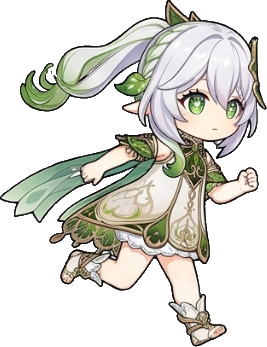
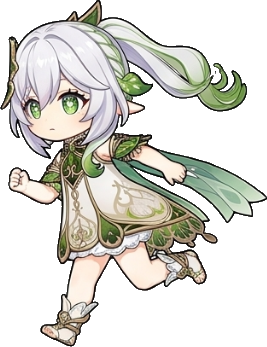
fix: anchor Nahida companion to screen bottom with uniform sprite facing and forward movement in both directions

diff --git a/src/components/athena_widget.rs b/src/components/athena_widget.rs
@@ -17,14 +17,6 @@ const SPRITES_WALK_LEFT: [&str; 3] = [
 ];
 
 const SPRITE_IMPACT: &str = "assets/chibi/02_physics_events/nahida_impact_01.png";
-
-const SPRITES_FALL: [&str; 3] = [
-    "assets/chibi/02_physics_events/nahida_fall_01.png",
-    "assets/chibi/02_physics_events/nahida_fall_02.png",
-    "assets/chibi/02_physics_events/nahida_fall_03.png",
-];
-
-const SPRITE_LAND: &str = "assets/chibi/02_physics_events/nahida_land_01.png";
 const SPRITE_RECOVER: &str = "assets/chibi/02_physics_events/nahida_recover_01.png";
 
 const SPRITE_THINK: &str = "assets/chibi/03_chat_interaction/nahida_think_pose.png";
@@ -34,22 +26,17 @@ const SPRITE_LOADING: &str = "assets/chibi/03_chat_interaction/nahida_loading_01
 const SPRITE_EXCITED: &str = "assets/chibi/03_chat_interaction/nahida_excited_01.png";
 const SPRITE_ANSWERING: &str = "assets/chibi/03_chat_interaction/nahida_answering_01.png";
 
-const SPRITE_LEAVE_01: &str = "assets/chibi/04_exit/nahida_leave_01.png";
-const SPRITE_LEAVE_02: &str = "assets/chibi/04_exit/nahida_leave_02.png";
-
 #[derive(Clone, Copy, Debug, PartialEq)]
 enum CompanionState {
-    Spawning,          // 0: Spawn at top-left
-    PatrolRight,       // 1: Run left-to-right along top
-    EdgeContact,       // 2: Hit right wall, impact bounce
-    AntiGravityFall,   // 3: Slow leaf-sway drift from top to bottom
-    Recovery,          // 4: Land on floor, shake off dizzy, stand ready
-    PatrolLeft,        // 5: Walk right-to-left smoothly along bottom
+    Spawning,          // 0: Spawns at bottom-left
+    PatrolRight,       // 1: Runs forward (facing right) along bottom towards right edge
+    EdgeContact,       // 2: Hits right edge, recoils slightly
+    Recovery,          // 3: Recovers, shakes head, turns left
+    PatrolLeft,        // 4: Walks forward (facing left) along bottom towards left edge
+    LeftTurn,          // 5: Reaches left edge, turns around to face right
     InterruptedChat,   // 6: Docked beside open chatbox
     Thinking,          // 7: Athena AI generating response
     Answering,         // 8: Athena AI completed answer
-    Departure,         // 9: Wave & dissolve fade out
-    InstantRecycle,    // 10: Reset to top-left and loop
 }
 
 #[component]
@@ -58,11 +45,10 @@ pub fn AthenaWidget() -> impl IntoView {
 
     // Chibi Reactive State Signals (100% Rust)
     let (x, set_x) = signal(24.0);
-    let (y, set_y) = signal(40.0);
+    let (bottom, set_bottom) = signal(20.0);
     let (scale, set_scale) = signal(0.0);
     let (opacity, set_opacity) = signal(1.0);
-    let (flip, set_flip) = signal(1.0);
-    let (sway_deg, set_sway_deg) = signal(0.0);
+    let (flip, set_flip) = signal(-1.0); // -1.0 flips native-left sprites to face right
     let (current_sprite, set_current_sprite) = signal(SPRITES_RUN[0]);
     let (bubble_text, set_bubble_text) = signal("Awakening...");
     let (bubble_icon, set_bubble_icon) = signal("🌱");
@@ -82,10 +68,8 @@ pub fn AthenaWidget() -> impl IntoView {
     Effect::new(move |_| {
         let mut state = CompanionState::Spawning;
         let mut pos_x: f64 = 24.0;
-        let mut pos_y: f64 = 40.0;
-        let top_y: f64 = 40.0;
+        let pos_bottom: f64 = 20.0;
         let left_edge: f64 = 24.0;
-        let mut vy: f64 = 0.0;
         let mut state_time: f64 = 0.0;
         let mut anim_tick: usize = 0;
         let mut was_open = false;
@@ -96,9 +80,6 @@ pub fn AthenaWidget() -> impl IntoView {
                 None => return,
             };
             let win_w = win.inner_width().ok().and_then(|v| v.as_f64()).unwrap_or(1200.0);
-            let win_h = win.inner_height().ok().and_then(|v| v.as_f64()).unwrap_or(800.0);
-
-            let floor_y = (win_h - 96.0).max(120.0);
             let right_edge = (win_w - 76.0).max(140.0);
 
             state_time += 16.6;
@@ -117,11 +98,13 @@ pub fn AthenaWidget() -> impl IntoView {
                 set_scale.set(1.0);
                 set_opacity.set(1.0);
                 set_flip.set(1.0);
-                set_sway_deg.set(0.0);
             } else if !open && was_open {
-                // When chat is closed, wave and recycle to restart loop
-                state = CompanionState::Departure;
+                // When chat is closed, turn and resume bottom patrol left
+                state = CompanionState::PatrolLeft;
                 state_time = 0.0;
+                set_flip.set(1.0);
+                set_bubble_text.set("Exploring...");
+                set_bubble_icon.set("🌿");
             }
             was_open = open;
 
@@ -148,16 +131,14 @@ pub fn AthenaWidget() -> impl IntoView {
             }
 
             match state {
-                // State 0: Spawning at Top-Left
+                // State 0: Spawning at Bottom-Left
                 CompanionState::Spawning => {
                     pos_x = left_edge;
-                    pos_y = top_y;
                     let sc = (state_time / 250.0).min(1.0);
                     set_scale.set(sc);
                     set_opacity.set(1.0);
-                    set_flip.set(1.0);
-                    set_sway_deg.set(0.0);
-                    set_current_sprite.set(SPRITES_RUN[0]);
+                    set_flip.set(-1.0); // Face right
+                    set_current_sprite.set(SPRITE_THINK);
                     set_bubble_text.set("Awakening...");
                     set_bubble_icon.set("🌱");
                     set_bubble_dot.set("#34d399");
@@ -171,14 +152,12 @@ pub fn AthenaWidget() -> impl IntoView {
                     }
                 }
 
-                // State 1: Running Left-to-Right along Top (Smooth, deterministic path)
+                // State 1: Running Left-to-Right along Bottom (Facing Right)
                 CompanionState::PatrolRight => {
-                    pos_y = top_y;
-                    pos_x += 2.8; // Steady running speed
+                    pos_x += 2.6; // Steady running speed
                     set_scale.set(1.0);
                     set_opacity.set(1.0);
-                    set_flip.set(1.0);
-                    set_sway_deg.set(0.0);
+                    set_flip.set(-1.0); // -1.0 makes native-left sprites face forward to the right
 
                     // 12fps running cycle
                     let frame = (anim_tick / 5) % SPRITES_RUN.len();
@@ -195,78 +174,44 @@ pub fn AthenaWidget() -> impl IntoView {
                     }
                 }
 
-                // State 2: Edge Impact & Recoil Bounce
+                // State 2: Edge Impact Bounce at Right Edge
                 CompanionState::EdgeContact => {
                     let bounce = (state_time / 300.0).min(1.0) * std::f64::consts::PI;
                     pos_x = right_edge - bounce.sin() * 7.0;
-                    pos_y = top_y;
 
                     if state_time >= 300.0 {
-                        state = CompanionState::AntiGravityFall;
-                        state_time = 0.0;
-                        vy = 0.5;
-                        set_bubble_text.set("whoa~");
-                        set_bubble_icon.set("🍃");
-                        set_bubble_dot.set("#10b981");
-                    }
-                }
-
-                // State 3: Dendro Anti-Gravity Falling (Top-Right down to Floor)
-                CompanionState::AntiGravityFall => {
-                    vy = (vy + 0.05).min(2.2);
-                    pos_y += vy;
-
-                    // Leaf-falling horizontal sine-wave drift and body tilt
-                    pos_x = right_edge - 10.0 + (state_time * 0.005).sin() * 14.0;
-                    set_sway_deg.set((state_time * 0.004).sin() * 12.0);
-
-                    let frame = (anim_tick / 8) % SPRITES_FALL.len();
-                    set_current_sprite.set(SPRITES_FALL[frame]);
-
-                    if pos_y >= floor_y {
-                        pos_y = floor_y;
-                        set_sway_deg.set(0.0);
                         state = CompanionState::Recovery;
                         state_time = 0.0;
-                        set_bubble_text.set("bonk!");
-                        set_bubble_icon.set("💫");
-                        set_bubble_dot.set("#f59e0b");
-                    }
-                }
-
-                // State 4: Landing & Recovery on Ground Floor
-                CompanionState::Recovery => {
-                    pos_y = floor_y;
-                    set_sway_deg.set(0.0);
-
-                    if state_time < 250.0 {
-                        set_current_sprite.set(SPRITE_LAND);
-                        set_bubble_text.set("bonk!");
-                        set_bubble_icon.set("💫");
-                    } else if state_time < 650.0 {
                         set_current_sprite.set(SPRITE_RECOVER);
                         set_bubble_text.set("dizzy...");
                         set_bubble_icon.set("🌀");
-                    } else if state_time < 1000.0 {
+                    }
+                }
+
+                // State 3: Recovery & Turn Around
+                CompanionState::Recovery => {
+                    if state_time < 350.0 {
+                        set_current_sprite.set(SPRITE_RECOVER);
+                        set_flip.set(-1.0);
+                    } else if state_time < 750.0 {
                         set_current_sprite.set(SPRITE_THINK);
                         set_bubble_text.set("I'm okay! ✨");
                         set_bubble_icon.set("✨");
+                        set_flip.set(1.0); // Turn around to face left
                     } else {
                         state = CompanionState::PatrolLeft;
                         state_time = 0.0;
-                        set_flip.set(-1.0);
+                        set_flip.set(1.0); // 1.0 makes native-left sprites face forward to the left
                         set_bubble_text.set("Exploring...");
                         set_bubble_icon.set("🌿");
                         set_bubble_dot.set("#10b981");
                     }
                 }
 
-                // State 5: Walking Right-to-Left along the Floor (Smooth, predictable path)
+                // State 4: Walking Right-to-Left along Bottom (Facing Left)
                 CompanionState::PatrolLeft => {
-                    pos_y = floor_y;
                     pos_x -= 1.8; // Steady, calm walk speed
-                    set_flip.set(-1.0);
-                    set_sway_deg.set(0.0);
+                    set_flip.set(1.0); // 1.0 faces forward to the left
 
                     // 10fps walk cycle
                     let frame = (anim_tick / 6) % SPRITES_WALK_LEFT.len();
@@ -274,22 +219,38 @@ pub fn AthenaWidget() -> impl IntoView {
 
                     if pos_x <= left_edge {
                         pos_x = left_edge;
-                        state = CompanionState::Departure;
+                        state = CompanionState::LeftTurn;
                         state_time = 0.0;
-                        set_flip.set(1.0);
-                        set_bubble_text.set("See you soon!");
-                        set_bubble_icon.set("👋");
+                        set_bubble_text.set("Turning... 🍃");
+                        set_bubble_icon.set("🍃");
                     }
                 }
 
-                // State 6: Interrupted Chat Dock (Waiting beside chat modal)
+                // State 5: Turn Around at Left Edge
+                CompanionState::LeftTurn => {
+                    pos_x = left_edge;
+                    if state_time < 500.0 {
+                        set_current_sprite.set(SPRITE_PONDER);
+                        set_flip.set(1.0);
+                    } else if state_time < 800.0 {
+                        set_current_sprite.set(SPRITE_THINK);
+                        set_flip.set(-1.0); // Turn to face right
+                        set_bubble_text.set("Let's go! ✨");
+                        set_bubble_icon.set("✨");
+                    } else {
+                        state = CompanionState::PatrolRight;
+                        state_time = 0.0;
+                        set_flip.set(-1.0);
+                        set_bubble_text.set("Ask Athena!");
+                        set_bubble_icon.set("💬");
+                    }
+                }
+
+                // State 6: Interrupted Chat Dock (Waiting beside chat modal at bottom)
                 CompanionState::InterruptedChat => {
-                    let target_x = (win_w - 500.0).max(20.0);
-                    let target_y = floor_y;
+                    let target_x = (win_w - 490.0).max(20.0);
                     pos_x += (target_x - pos_x) * 0.18;
-                    pos_y += (target_y - pos_y) * 0.18;
                     set_flip.set(1.0);
-                    set_sway_deg.set(0.0);
                     set_opacity.set(1.0);
 
                     let cycle = (state_time / 3000.0) as usize % 2;
@@ -298,10 +259,8 @@ pub fn AthenaWidget() -> impl IntoView {
 
                 // State 7: Thinking & Loading
                 CompanionState::Thinking => {
-                    let target_x = (win_w - 500.0).max(20.0);
-                    let target_y = floor_y;
+                    let target_x = (win_w - 490.0).max(20.0);
                     pos_x += (target_x - pos_x) * 0.18;
-                    pos_y += (target_y - pos_y) * 0.18;
 
                     let frame = (anim_tick / 8) % 2;
                     set_current_sprite.set(if frame == 0 { SPRITE_LOADING } else { SPRITE_THINK });
@@ -312,10 +271,8 @@ pub fn AthenaWidget() -> impl IntoView {
 
                 // State 8: Answering
                 CompanionState::Answering => {
-                    let target_x = (win_w - 500.0).max(20.0);
-                    let target_y = floor_y;
+                    let target_x = (win_w - 490.0).max(20.0);
                     pos_x += (target_x - pos_x) * 0.18;
-                    pos_y += (target_y - pos_y) * 0.18;
 
                     if state_time < 1000.0 {
                         set_current_sprite.set(SPRITE_EXCITED);
@@ -329,37 +286,10 @@ pub fn AthenaWidget() -> impl IntoView {
                         set_bubble_icon.set("✨");
                     }
                 }
-
-                // State 9: Departure (Wave & Dissolve)
-                CompanionState::Departure => {
-                    if state_time < 300.0 {
-                        set_current_sprite.set(SPRITE_LEAVE_01);
-                    } else {
-                        set_current_sprite.set(SPRITE_LEAVE_02);
-                    }
-                    let op = (1.0 - (state_time / 600.0)).max(0.0);
-                    set_opacity.set(op);
-                    set_bubble_text.set("See you soon!");
-                    set_bubble_icon.set("👋");
-
-                    if state_time >= 600.0 {
-                        state = CompanionState::InstantRecycle;
-                    }
-                }
-
-                // State 10: Instant Recycle (Teleport back to top-left)
-                CompanionState::InstantRecycle => {
-                    pos_x = left_edge;
-                    pos_y = top_y;
-                    set_scale.set(0.0);
-                    set_opacity.set(1.0);
-                    state = CompanionState::Spawning;
-                    state_time = 0.0;
-                }
             }
 
             set_x.set(pos_x);
-            set_y.set(pos_y);
+            set_bottom.set(pos_bottom);
         });
 
         interval.forget();
@@ -428,15 +358,15 @@ pub fn AthenaWidget() -> impl IntoView {
                 on:click=on_nahida_click
                 title="Click to talk with Athena AI Guide!"
                 style=move || format!(
-                    "position: fixed; left: {}px; top: {}px; opacity: {}; z-index: 9990; cursor: pointer; user-select: none; will-change: transform, left, top; display: flex; flex-direction: column; align-items: center;",
+                    "position: fixed; left: {}px; bottom: {}px; opacity: {}; z-index: 9990; cursor: pointer; user-select: none; will-change: left, bottom; display: flex; flex-direction: column; align-items: center;",
                     x.get(),
-                    y.get(),
+                    bottom.get(),
                     opacity.get()
                 )
             >
                 // Floating Speech Bubble
                 <div
-                    class="relative mb-1 px-2.5 py-1 rounded-xl bg-zinc-950/90 border border-zinc-700/80 text-zinc-100 text-[11px] font-mono shadow-xl flex items-center gap-1.5 whitespace-nowrap transition-transform hover:scale-105"
+                    class="relative mb-1 px-2.5 py-1 rounded-xl bg-zinc-950/90 border border-zinc-700/80 text-zinc-100 text-[11px] font-mono shadow-xl flex items-center gap-1.5 whitespace-nowrap"
                 >
                     <span class="text-xs">{move || bubble_icon.get()}</span>
                     <span>{move || bubble_text.get()}</span>
@@ -446,16 +376,15 @@ pub fn AthenaWidget() -> impl IntoView {
                     ></span>
                 </div>
 
-                // Animated Nahida Sprite Frame
+                // Animated Nahida Sprite Frame (100% visible on bottom, no CSS transition lag)
                 <img
                     src=move || current_sprite.get()
                     alt="Nahida Chibi Companion"
-                    class="w-16 h-auto drop-shadow-[0_8px_16px_rgba(0,0,0,0.6)] select-none pointer-events-none transition-transform"
+                    class="w-16 h-auto drop-shadow-[0_8px_16px_rgba(0,0,0,0.6)] select-none pointer-events-none"
                     style=move || format!(
-                        "transform: scale({}) scaleX({}) rotate({}deg); transform-origin: bottom center;",
+                        "transform: scale({}) scaleX({}); transform-origin: bottom center;",
                         scale.get(),
-                        flip.get(),
-                        sway_deg.get()
+                        flip.get()
                     )
                 />
             </div>
